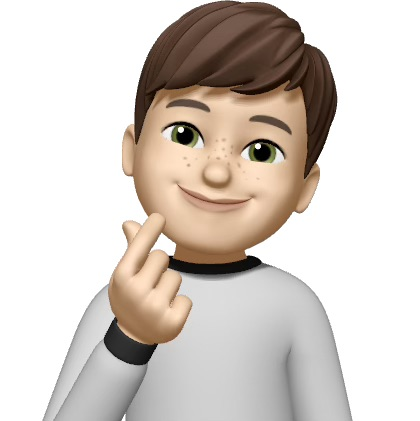
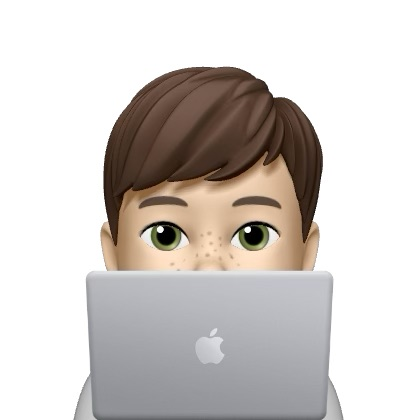
fix: changed memoji

diff --git a/src/app/api/og/route.tsx b/src/app/api/og/route.tsx
@@ -1,7 +1,7 @@
 export async function GET() {
   try {
     const response = await fetch(
-      'https://og.anuragroy.dev/api?theme=blue&title=Robert+Lewis+&description=Aspiring+Software+Developer.+Come+check+out+my+portfolio.&avatar=https://www.robertlewis.dev/assets/memoji.jpg&author=robertlewis.dev&logo=https%3A%2F%2Favatars.githubusercontent.com%2Fu%2F82246610%3Fv%3D4'
+      'https://og.anuragroy.dev/api?theme=blue&title=Robert+Lewis+&description=Aspiring+Software+Developer.+Come+check+out+my+portfolio.&avatar=https://www.robertlewis.dev/assets/memoji.jpg&author=robertlewis.dev&logo='
     )
     const data = await response.blob()
     return new Response(data, {
